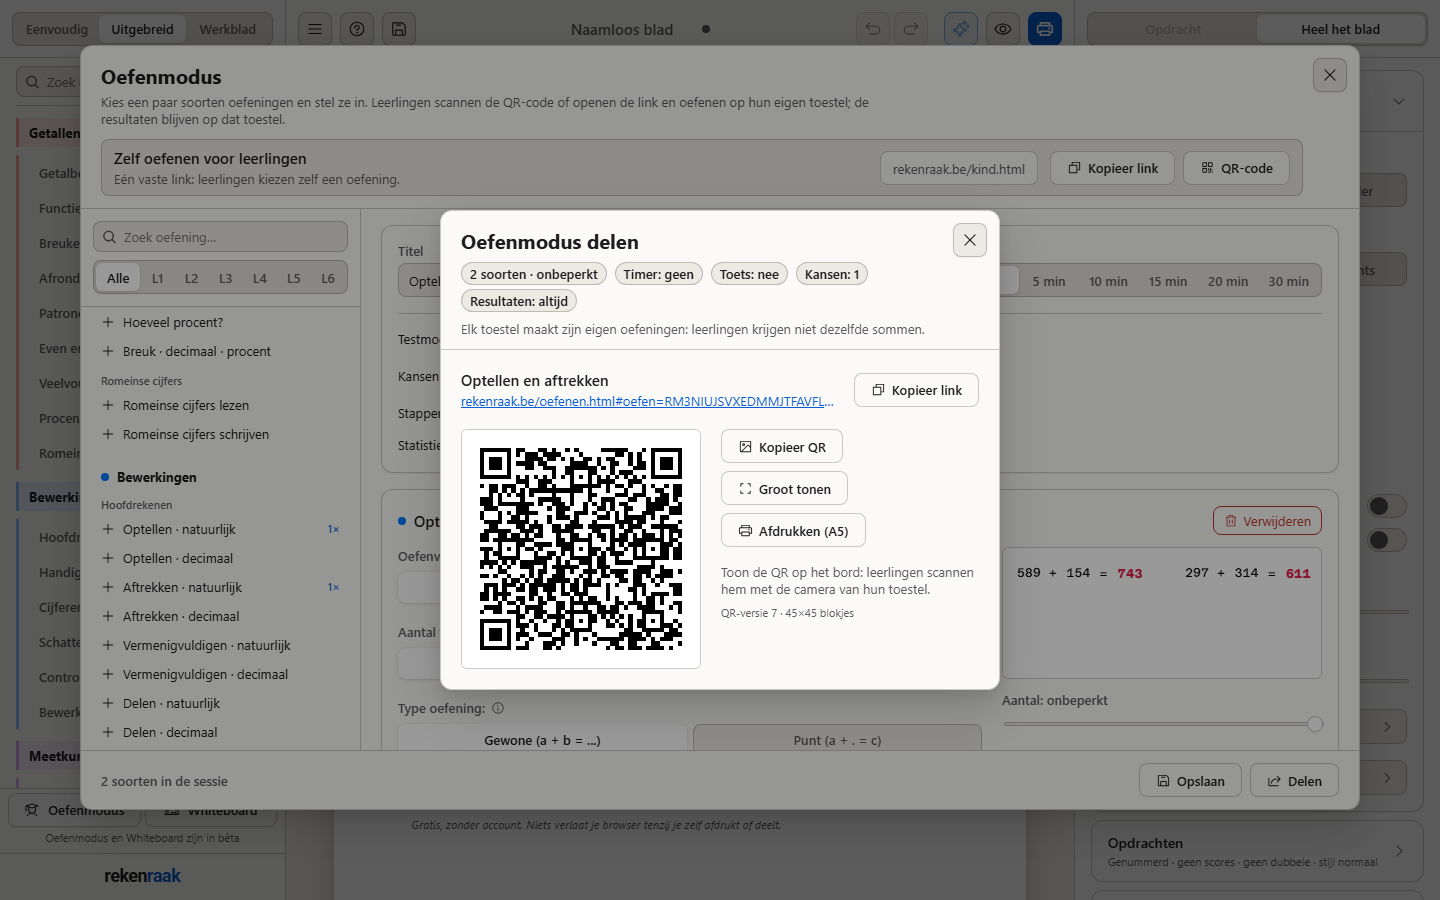
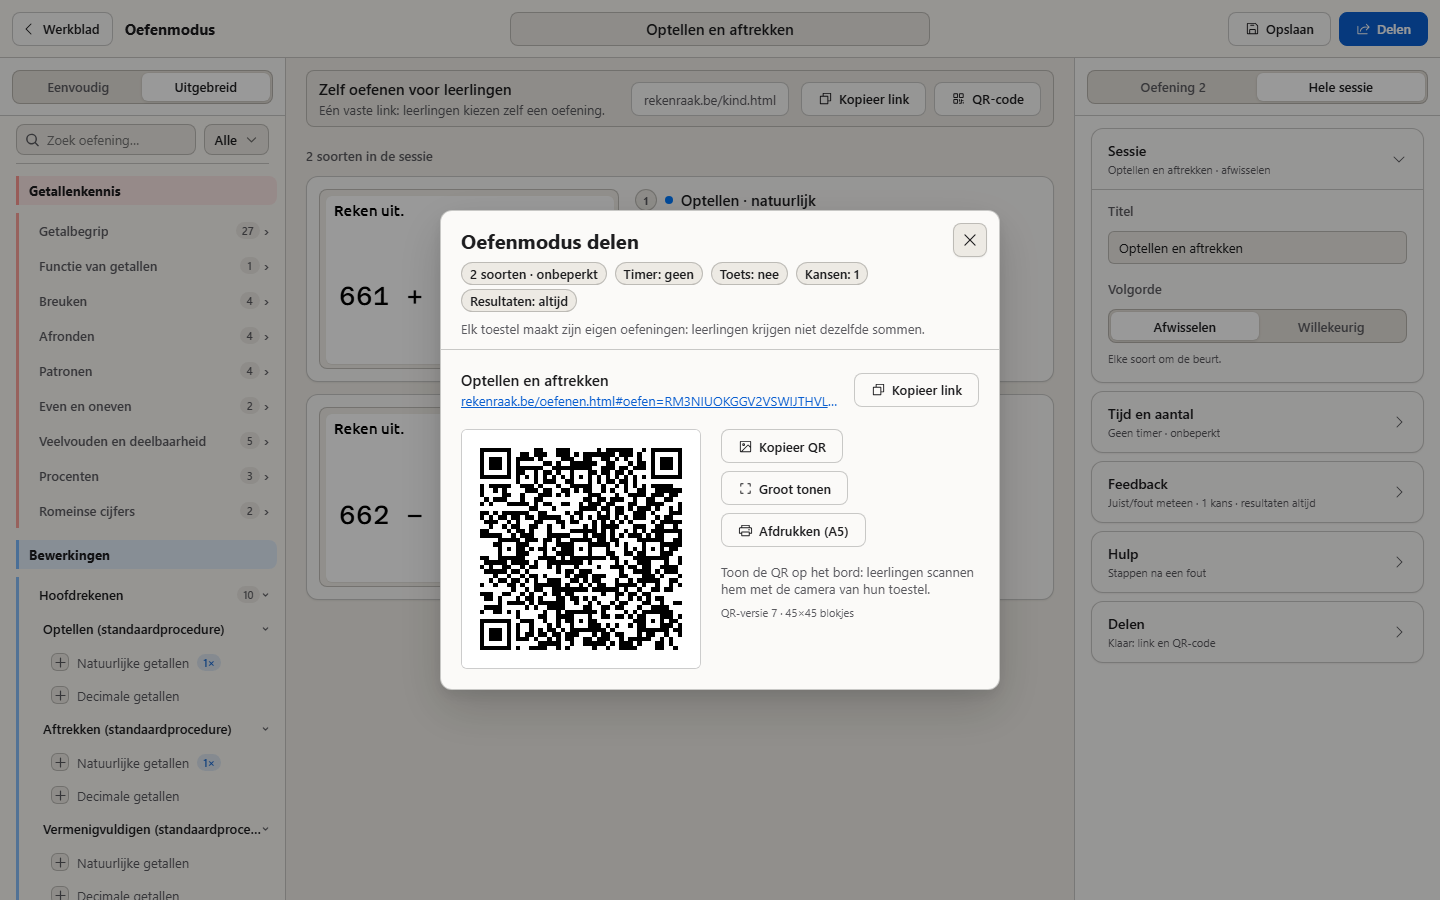
docs(handleiding): Oefenmodus as its own workspace
The oefenmodus figures now drive the workspace (catalogue left, session
cards with samples in the middle, Oefening | Hele sessie on the right),
with a new Hele sessie figure. The manual section and the help topic
describe the three columns, Delen, Opslaan and the way back.

diff --git a/handleiding.html b/handleiding.html
@@ -339,22 +339,34 @@
            The Oefenmodus figures (oefenmodus-*.png) are made together by `npm run handleiding:shots -- --only oefenmodus`. -->
       <h2 id="oefenmodus">Oefenmodus: een oefensessie maken</h2>
       <p>Met Oefenmodus oefenen leerlingen op hun eigen toestel (tablet, Chromebook of computer), één oefening per scherm. Je kiest de oefeningen, stelt ze in en deelt een link of QR-code. Er is geen account nodig.</p>
+      <p>Klik linksonder op <strong>Oefenmodus</strong>. Oefenmodus opent in een eigen werkruimte met drie kolommen, net als het werkblad. Met <strong>‹ Werkblad</strong> linksboven ga je terug naar je blad.</p>
+      <figure class="shot">
+        <img src="/handleiding/oefenmodus-kiezen.png" alt="De werkruimte Oefenmodus: links de oefeningen, in het midden twee soorten met elk een voorbeeld zoals de leerling het ziet, rechts de instellingen van oefening 2" width="1440" height="900" loading="lazy" />
+        <figcaption>Links kies je, in het midden staat je sessie, rechts stel je in.</figcaption>
+      </figure>
       <ol>
-        <li>Klik linksonder op <strong>Oefenmodus</strong>.</li>
-        <li>Kies links de soorten oefeningen. Zoek op naam of filter op leerjaar (L1 tot L6). Je kan dezelfde soort ook twee keer kiezen met andere instellingen.</li>
-        <li>Stel elke soort in. Het voorbeeld ernaast toont meteen wat de leerling krijgt. Met <strong>Aantal</strong> kies je hoeveel oefeningen van die soort (of onbeperkt).</li>
-        <li>Geef de sessie een <strong>titel</strong> en kies de <strong>volgorde</strong> (afwisselen of willekeurig) en eventueel een <strong>tijd</strong>.</li>
-        <li>Kies de opties: <strong>Testmodus</strong> (geen juist of fout tijdens het oefenen), <strong>Kansen per oefening</strong> (1 of 2), <strong>Stappen tonen na een fout</strong>, <strong>Hulp met MAB</strong> (leerjaar 1 tot 3) en <strong>Statistieken pas op het einde</strong>.</li>
-        <li>Klik op <strong>Delen</strong>. Kopieer de link, toon de QR-code groot op het bord of druk hem af (A5). Met <strong>Opslaan</strong> vind je de sessie later terug in <em>Mijn bladen › Oefensessies</em>.</li>
+        <li><strong>Links: kies oefeningen.</strong> Onder <em>Eenvoudig</em> kies je je leerjaar en een kaart, onder <em>Uitgebreid</em> staat de volledige lijst met een zoekveld. Je ziet alleen oefeningen die op een scherm kunnen. Eén klik zet de soort in je sessie.</li>
+        <li><strong>In het midden: je sessie.</strong> Elke soort staat er met een voorbeeld zoals de leerling het ziet. <em>Ander voorbeeld</em> toont een nieuwe som; met de pijltjes verander je de volgorde, je kan een soort dupliceren of <em>Verwijderen</em>. Je kan dezelfde soort ook twee keer kiezen met andere instellingen.</li>
+        <li><strong>Rechts: per oefening of voor de hele sessie.</strong> Kies bovenaan <em>Oefening</em> (de soort die je in het midden aanklikte) of <em>Hele sessie</em>.
+          <ul>
+            <li>Per oefening: <em>Wat oefenen ze</em> (getallen, bruggen, …) en <em>Hoeveel</em> (1 tot 50, of helemaal rechts onbeperkt).</li>
+            <li>Voor de hele sessie: <em>Sessie</em> (titel en volgorde), <em>Tijd en aantal</em> (een timer), <em>Feedback</em> (testmodus, 1 of 2 kansen, resultaten pas op het einde), <em>Hulp</em> (stappen na een fout, en in leerjaar 1 tot 3 hulp met MAB) en <em>Delen</em>.</li>
+          </ul>
+        </li>
+        <li>Geef de sessie bovenaan in het midden een <strong>naam</strong>.</li>
+        <li>Klik rechtsboven op <strong>Delen</strong>: kopieer de link, toon de QR-code groot op het bord of druk hem af (A5).</li>
+        <li>Met <strong>Opslaan</strong> vind je de sessie later terug in <em>Mijn bladen › Oefensessies</em>; daar kan je ze opnieuw delen of met <em>Bewerken</em> aanpassen.</li>
       </ol>
-      <figure class="shot">
-        <img src="/handleiding/oefenmodus-kiezen.png" alt="Oefenmodus: links de lijst met soorten oefeningen, rechts de titel, volgorde, tijd en opties en een gekozen soort Optellen met een voorbeeld" width="1440" height="900" loading="lazy" />
-        <figcaption>Oefeningen kiezen en instellen.</figcaption>
-      </figure>
-      <figure class="shot">
-        <img src="/handleiding/oefenmodus-delen.png" alt="Oefenmodus delen: een samenvatting, de link met Kopieer link en een QR-code met Kopieer QR, Groot tonen en Afdrukken A5" width="1440" height="900" loading="lazy" />
-        <figcaption>De link en de QR-code voor je leerlingen.</figcaption>
-      </figure>
+      <div class="shot-row">
+        <figure class="shot shot-narrow">
+          <img src="/handleiding/oefenmodus-sessie.png" alt="Het paneel Hele sessie met de vakken Sessie, Tijd en aantal, Feedback, Hulp en Delen" width="364" height="680" loading="lazy" />
+          <figcaption>Hele sessie.</figcaption>
+        </figure>
+        <figure class="shot">
+          <img src="/handleiding/oefenmodus-delen.png" alt="Oefenmodus delen: een samenvatting, de link met Kopieer link en een QR-code met Kopieer QR, Groot tonen en Afdrukken A5" width="1440" height="900" loading="lazy" />
+          <figcaption>Delen: de link en de QR-code voor je leerlingen.</figcaption>
+        </figure>
+      </div>
       <p class="tip">Elk toestel maakt zijn eigen oefeningen: twee leerlingen krijgen nooit dezelfde sommen. Verander je de sessie, dan krijg je een nieuwe link.</p>
 
       <h2 id="oefenmodus-leerling">Oefenmodus op het toestel van de leerling</h2>

diff --git a/src/components/layout/helpTopics.ts b/src/components/layout/helpTopics.ts
@@ -113,9 +113,10 @@ export const HELP_TOPICS: HelpTopic[] = [
         id: 'oefenmodus', title: 'Oefenmodus', anchor: 'oefenmodus', module: 'oefenmodus',
         bullets: [
             'Leerlingen oefenen op hun eigen toestel, één oefening per scherm, via een link of QR-code.',
-            'Klik linksonder op Oefenmodus, kies de soorten oefeningen en stel ze in. Het voorbeeld toont wat de leerling krijgt.',
-            'Kies een titel, de volgorde, een tijd, kansen, testmodus en of de stappen na een fout verschijnen.',
-            'Delen geeft de link en de QR-code: kopieer, toon groot op het bord of druk af (A5).',
+            'Klik linksonder op Oefenmodus: een eigen werkruimte opent. Met ‹ Werkblad ga je terug naar je blad.',
+            'Links kies je oefeningen (Eenvoudig of Uitgebreid). In het midden staat je sessie, elke soort met een voorbeeld zoals de leerling het ziet.',
+            'Rechts stel je in per oefening (wat en hoeveel) of voor de hele sessie (titel, volgorde, tijd, feedback, hulp na een fout).',
+            'Delen geeft de link en de QR-code: kopieer, toon groot op het bord of druk af (A5). Opslaan bewaart de sessie in Mijn bladen.',
             'Na een fout ziet de leerling de stappen, in leerjaar 1 tot 3 met MAB-blokjes. De resultaten blijven op het toestel van de leerling.',
         ],
     },
